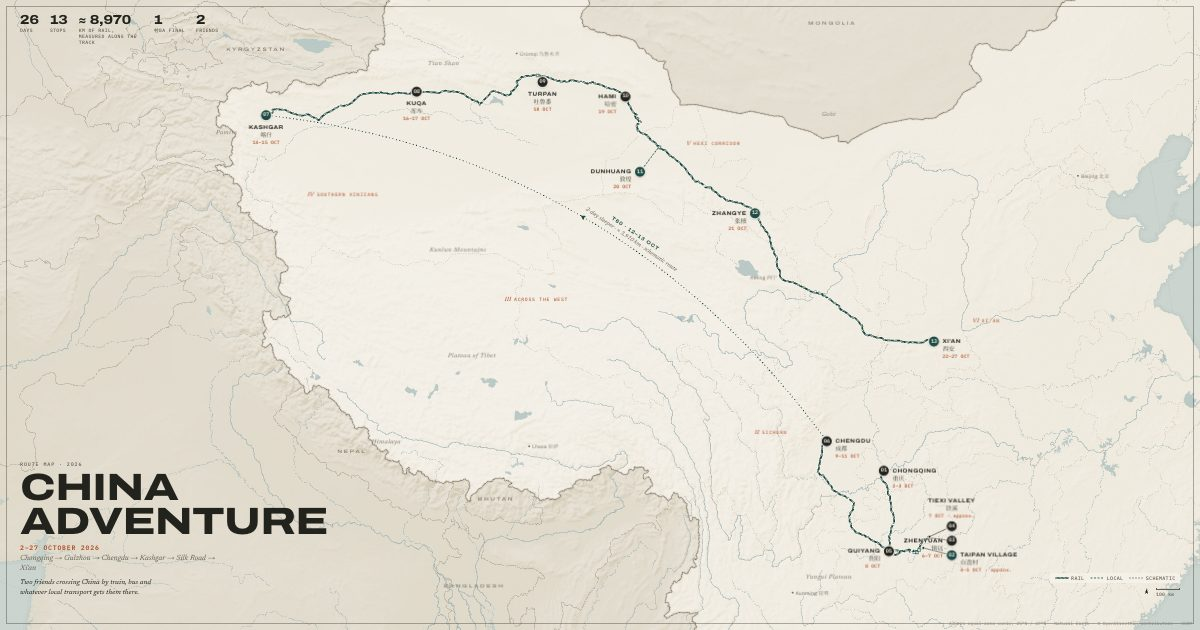
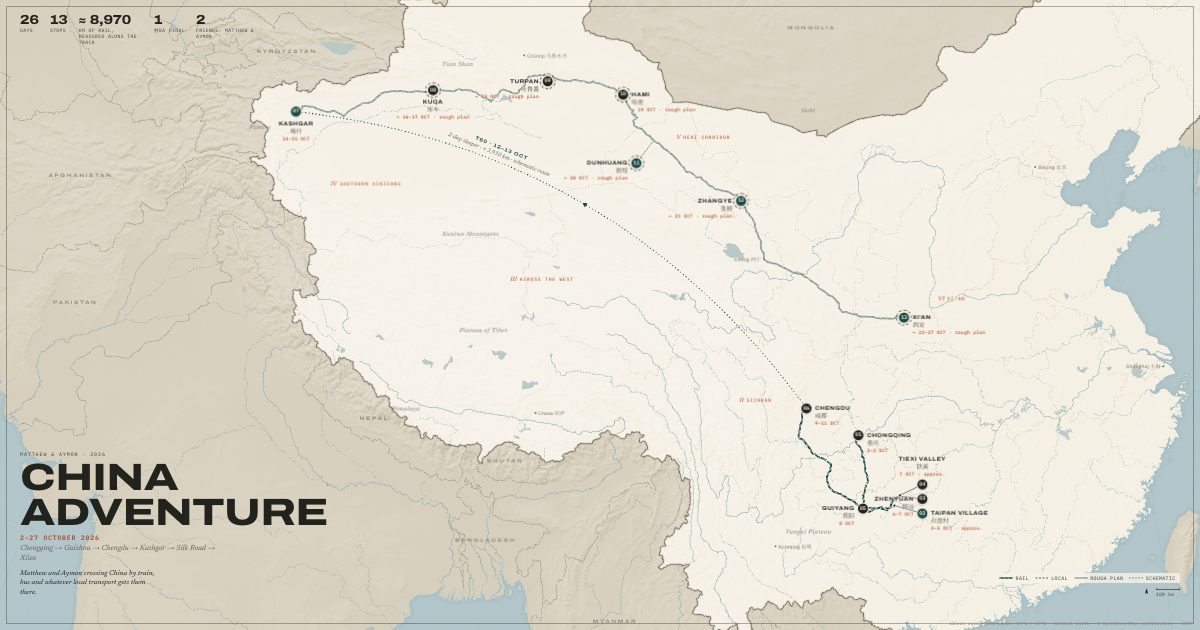
Phone fixes, names, rough plan after Kashgar
- Stop badges: hover/active scale was applied to the badge's position, so on a
  phone the badge jumped away mid-tap and taps never opened a card
- Higher-contrast map colours (light and dark), thicker routes on phones
- Phone controls moved to the top so the stop sheet never covers Pause
- Sticky prev/next in the phone sheet; edge labels slide to stay on screen
- Drags that start on a label or badge pan the map
- Play journey frames at least ~450 km
- Matthew & Aymon named; stops after Kashgar marked as a rough plan

diff --git a/app/src/index.css b/app/src/index.css
@@ -15,12 +15,12 @@
   --sand: #d9c49a;
   --focus: #1f6fd1;
 
-  --map-sea: #cdd6d1;
-  --map-sea-line: #9fb2ad;
-  --map-land: #f1ece1;
-  --map-land-other: #e2dccd;
-  --map-border: #a2998a;
-  --map-border-focus: #7f7563;
+  --map-sea: #b4c8cd;
+  --map-sea-line: #86a3aa;
+  --map-land: #f7f2e7;
+  --map-land-other: #d9d1bf;
+  --map-border: #968c7a;
+  --map-border-focus: #5f5544;
   --map-prov: #c4b69e;
   --map-river: #93adb0;
   --map-lake: #bccbc8;
@@ -32,7 +32,7 @@
   --map-accent: var(--accent);
   --map-paper: #f7f3ea;
   --map-ghost: rgba(29, 74, 68, 0.22);
-  --map-relief-alpha: 0.75;
+  --map-relief-alpha: 0.62;
 
   --f-display: "Archivo", "Helvetica Neue", Arial, sans-serif;
   --f-serif: "Newsreader", Georgia, "Times New Roman", serif;
@@ -59,20 +59,20 @@
     --teal-2: #6fa597;
     --sand: #6b5d40;
     --focus: #7fb2ff;
-    --map-sea: #121819;
-    --map-sea-line: #29393b;
-    --map-land: #262a26;
-    --map-land-other: #1c201d;
-    --map-border: #545a50;
-    --map-border-focus: #7b8274;
+    --map-sea: #0b1519;
+    --map-sea-line: #1f3a42;
+    --map-land: #343a33;
+    --map-land-other: #1f2320;
+    --map-border: #5d655a;
+    --map-border-focus: #a3ab98;
     --map-prov: #3d423a;
-    --map-river: #2f4a4d;
-    --map-lake: #1d2e30;
+    --map-river: #2e5a63;
+    --map-lake: #173039;
     --map-grat: rgba(180, 200, 190, 0.07);
     --map-ink-2: #8f8a7c;
     --map-paper: #1f2320;
     --map-ghost: rgba(140, 195, 179, 0.2);
-    --map-relief-alpha: 0.9;
+    --map-relief-alpha: 0.42;
     --shadow: 0 1px 0 rgba(0, 0, 0, 0.3), 0 10px 28px -10px rgba(0, 0, 0, 0.7);
     color-scheme: dark;
   }
@@ -90,20 +90,20 @@
   --teal-2: #6fa597;
   --sand: #6b5d40;
   --focus: #7fb2ff;
-  --map-sea: #121819;
-  --map-sea-line: #29393b;
-  --map-land: #262a26;
-  --map-land-other: #1c201d;
-  --map-border: #545a50;
-  --map-border-focus: #7b8274;
+  --map-sea: #0b1519;
+  --map-sea-line: #1f3a42;
+  --map-land: #343a33;
+  --map-land-other: #1f2320;
+  --map-border: #5d655a;
+  --map-border-focus: #a3ab98;
   --map-prov: #3d423a;
-  --map-river: #2f4a4d;
-  --map-lake: #1d2e30;
+  --map-river: #2e5a63;
+  --map-lake: #173039;
   --map-grat: rgba(180, 200, 190, 0.07);
   --map-ink-2: #8f8a7c;
   --map-paper: #1f2320;
   --map-ghost: rgba(140, 195, 179, 0.2);
-  --map-relief-alpha: 0.9;
+  --map-relief-alpha: 0.42;
   --shadow: 0 1px 0 rgba(0, 0, 0, 0.3), 0 10px 28px -10px rgba(0, 0, 0, 0.7);
   color-scheme: dark;
 }
@@ -180,8 +180,9 @@ a { color: inherit; }
 }
 .map-badge::before { content: ""; position: absolute; inset: -9px; border-radius: 50%; } /* 42px touch target */
 .map-badge.is-moment { background: var(--teal); }
-.map-badge:hover, .map-badge:focus-visible { scale: 1.16; z-index: 2; }
-.map-badge.is-active { background: var(--accent); color: var(--accent-ink); scale: 1.2; z-index: 3; }
+.map-badge:focus-visible { --s: 1.16; z-index: 2; }
+@media (hover: hover) { .map-badge:hover { --s: 1.16; z-index: 2; } }
+.map-badge.is-active { background: var(--accent); color: var(--accent-ink); --s: 1.2; z-index: 3; }
 .map-badge.is-future { opacity: 0.35; }
 :root[data-theme="dark"] .map-badge:not(.is-active):not(.is-moment) { background: var(--ink); color: #151816; }
 @media (prefers-color-scheme: dark) { :root:not([data-theme="light"]) .map-badge:not(.is-active):not(.is-moment) { background: var(--ink); color: #151816; } }
@@ -436,7 +437,7 @@ a { color: inherit; }
   .title br { display: none; }
   .corridor { display: none; }
   .top-right { top: 12px; right: 12px; }
-  .controls { right: 12px; bottom: 30px; }
+  .controls { right: 12px; top: 54px; bottom: auto; gap: 6px; } /* top on phones, so the bottom sheet never covers Pause */
   .ctrl { min-width: 44px; height: 44px; }
   .legend-dock { left: 12px; bottom: 28px; }
   .legend { flex-direction: column; gap: 7px; padding: 8px 10px; }
@@ -482,7 +483,8 @@ a { color: inherit; }
 }
 .map-jpin.is-latest { box-shadow: 0 0 0 0 color-mix(in srgb, var(--accent) 60%, transparent); animation: pin-pulse 2.4s ease-out infinite; }
 @keyframes pin-pulse { 70% { box-shadow: 0 0 0 10px transparent; } 100% { box-shadow: 0 0 0 0 transparent; } }
-.map-jpin:hover, .map-jpin:focus-visible { scale: 1.25; z-index: 4; }
+.map-jpin:focus-visible { --s: 1.25; z-index: 4; }
+@media (hover: hover) { .map-jpin:hover { --s: 1.25; z-index: 4; } }
 
 .sw-actual line { stroke: var(--accent); stroke-width: 1.6; stroke-dasharray: 1.5 3.5; stroke-linecap: round; }
 .sw-actual circle { fill: var(--accent); stroke: var(--map-paper); stroke-width: 1.2; }
@@ -581,3 +583,13 @@ a { color: inherit; }
   .welcome-title { font-size: 23px; }
 }
 .is-clean .top-right { display: none; } /* ?clean: for rendering the link-preview image */
+
+/* ------------------------------------------------------------------ rough plan (after Kashgar) */
+.map-badge.is-rough { outline: 1.5px dashed var(--ink-2); outline-offset: 2px; }
+.map-badge.is-rough.is-active { outline-color: var(--accent); }
+.sw-rough { opacity: 0.5; }
+.tag-rough { color: var(--ink-2); border-style: dashed; margin-left: 2px; }
+.card-rough { margin-top: 2px; margin-bottom: 8px; }
+
+/* keep previous / next reachable on the phone bottom sheet */
+.card-sheet .card-nav { position: sticky; bottom: calc(-14px - env(safe-area-inset-bottom, 0px)); margin: 12px -18px calc(-14px - env(safe-area-inset-bottom, 0px)); padding: 8px 18px calc(10px + env(safe-area-inset-bottom, 0px)); background: var(--paper-2); z-index: 1; }

diff --git a/app/src/map/engine.ts b/app/src/map/engine.ts
@@ -113,7 +113,13 @@ export class MapEngine {
     this.relief.src = reliefUrl;
 
     this.zoomer = zoom<HTMLElement, unknown>()
-      .filter((e: any) => (!e.ctrlKey || e.type === "wheel") && !e.button && !(e.target as HTMLElement).closest?.("[data-map-ui]"))
+      .filter((e: any) => {
+        const t = e.target as HTMLElement;
+        // drags that start on a marker or label still pan the map (a plain tap still selects it);
+        // panels, cards and buttons are left alone
+        const onMarker = !!t.closest?.(".map-badge, .map-slabel, .map-jpin");
+        return (!e.ctrlKey || e.type === "wheel") && !e.button && (onMarker || !t.closest?.("[data-map-ui]"));
+      })
       .on("zoom", (e) => {
         this.t = e.transform;
         this.requestRender();
@@ -242,7 +248,8 @@ export class MapEngine {
       const half = 180 / 6.371; // km → world units
       box = [[xy[0] - half, xy[1] - half], [xy[0] + half, xy[1] + half]];
     }
-    const minSpan = 70 / 6.371; // don't frame tighter than ~70 km
+    // never frame tighter than ~70 km for a clicked stop, or ~450 km while playing the journey
+    const minSpan = (mode === "leg" ? 450 : 70) / 6.371;
     const cx = (box[0][0] + box[1][0]) / 2, cy = (box[0][1] + box[1][1]) / 2;
     const hw = Math.max((box[1][0] - box[0][0]) / 2, minSpan / 2), hh = Math.max((box[1][1] - box[0][1]) / 2, minSpan / 2);
     return this.flyToBox([[cx - hw, cy - hh], [cx + hw, cy + hh]], duration, mode === "stop");
@@ -379,6 +386,7 @@ export class MapEngine {
       b.dataset.mapUi = "";
       b.dataset.stop = s.id;
       if (s.bigMoment) b.classList.add("is-moment");
+      if (s.tentative) b.classList.add("is-rough");
       b.setAttribute("aria-label", `Stop ${s.number}: ${s.city}, ${dateRangeLong(s.dateStart, s.dateEnd)}`);
       b.innerHTML = `<span>${pad2(s.number)}</span>`;
       b.addEventListener("click", (e) => {
@@ -397,7 +405,7 @@ export class MapEngine {
       l.setAttribute("aria-hidden", "true");
       l.innerHTML =
         `<span class="en">${s.city}</span><span class="zh" lang="zh-Hans">${s.chineseName}</span>` +
-        `<span class="dt">${stopDates(s)}${s.confidence === "approximate" ? " · approx." : ""}</span>` +
+        `<span class="dt">${s.tentative ? "≈ " : ""}${stopDates(s)}${s.tentative ? " · rough plan" : s.confidence === "approximate" ? " · approx." : ""}</span>` +
         `<span class="kick">${s.kicker}</span>`;
       l.addEventListener("click", (e) => {
         e.stopPropagation();
@@ -613,6 +621,7 @@ export class MapEngine {
     }
 
     this.drawRoutes();
+    ctx.globalAlpha = 1;
 
     // our actual route, joining located journal posts in date order
     if (this.actualPath && this.reveal == null) {
@@ -692,7 +701,7 @@ export class MapEngine {
 
   private drawRoutes() {
     const { ctx, colors: C } = this;
-    const px = 1 / this.t.k;
+    const px = (this.W < 560 ? 1.3 : 1) / this.t.k; // phones: thicker lines
     const focus = this.hoverStop ?? this.active;
 
     // ghost of the whole route while the journey is playing
@@ -714,6 +723,8 @@ export class MapEngine {
       if (f <= 0) continue;
       const path = r.seg.offsetPx ? this.offsetPath(r, f, r.seg.offsetPx) : this.partialPath(r, f);
       const hi = r.seg.leg === focus;
+      // rough-plan legs (after Kashgar) are drawn faded unless highlighted
+      ctx.globalAlpha = !hi && STOPS.find((s) => s.id === r.seg.leg)?.tentative ? 0.5 : 1;
       const hov = r.seg.id === this.hoverSeg;
       const col = hi ? C.accent : r.seg.mode === "local" ? C.local : C.rail;
       const extra = hov ? 1.2 : 0;
@@ -850,7 +861,7 @@ export class MapEngine {
       const id = a.s.id;
       const bp = badgePos.get(id)!;
       const b = this.badges.get(id)!;
-      b.style.transform = `translate(${bp[0] - B / 2}px, ${bp[1] - B / 2}px)`;
+      b.style.transform = `translate(${bp[0] - B / 2}px, ${bp[1] - B / 2}px) scale(var(--s, 1))`;
       b.classList.toggle("is-active", this.active === id);
       b.classList.toggle("is-future", !this.stopReached(a.s));
       placed.push({ x0: bp[0] - B / 2, y0: bp[1] - B / 2, x1: bp[0] + B / 2, y1: bp[1] + B / 2 });
@@ -885,7 +896,7 @@ export class MapEngine {
       for (const bp of badgePos.values())
         if (Math.abs(bp[0] - px) < B / 2 + 6 && Math.abs(bp[1] - py) < B / 2 + 6) { px = bp[0] + B / 2 - 1; py = bp[1] - B / 2 + 1; break; }
       g.p = [px, py];
-      el.style.transform = `translate(${g.p[0] - 7}px, ${g.p[1] - 7}px)`;
+      el.style.transform = `translate(${g.p[0] - 7}px, ${g.p[1] - 7}px) scale(var(--s, 1))`;
       el.style.visibility = this.reveal == null && !this.poster ? "visible" : "hidden";
       if (this.reveal == null && !this.poster) placed.push({ x0: g.p[0] - 7, y0: g.p[1] - 7, x1: g.p[0] + 7, y1: g.p[1] + 7 });
     }
@@ -925,7 +936,9 @@ export class MapEngine {
         if (prev) sides = [prev, ...sides.filter((x) => x !== prev)];
         for (const pass of [routeObs, undefined]) {
           for (const side of sides) {
-            const [x, y] = cand[side];
+            let [x, y] = cand[side];
+            // labels above/below a badge may slide sideways to stay on screen (e.g. Kashgar at the left edge)
+            if (side === "t" || side === "b") x = Math.max(6, Math.min(this.W - 6 - w, x));
             const rect = { x0: x, y0: y, x1: x + w, y1: y + h };
             if (free(rect, pass)) {
               placed.push(rect);

diff --git a/app/src/App.tsx b/app/src/App.tsx
@@ -138,7 +138,7 @@ export default function App() {
   const padFor = useCallback(
     (cardOpen: boolean) => {
       if (poster) return { top: 150, right: 60, bottom: 150, left: 60 };
-      if (mobile) return { top: 96, right: 20, bottom: cardOpen ? Math.round(window.innerHeight * 0.5) : 70, left: 20 };
+      if (mobile) return { top: 110, right: 20, bottom: cardOpen ? Math.round(window.innerHeight * 0.5) : 60, left: 20 };
       return { top: 120, right: cardOpen ? 400 : 200, bottom: 80, left: 70 };
     },
     [mobile, poster],
@@ -324,7 +324,7 @@ export default function App() {
         <div className="paper-grain" aria-hidden="true" />
 
         <header className="title-block" data-map-reserve data-map-ui>
-          <p className="eyebrow">Route map · {TRIP.start.slice(0, 4)}</p>
+          <p className="eyebrow">{TRIP.travellers} · {TRIP.start.slice(0, 4)}</p>
           <h1 className="title">China{" "}<br />Adventure</h1>
           <p className="dates">2–27 October 2026</p>
           <p className="corridor">Chongqing → Guizhou → Chengdu → Kashgar → Silk Road → Xi'an</p>
@@ -342,7 +342,7 @@ export default function App() {
             <div><b>13</b><span>stops</span></div>
             <div><b>{approxKm(totalRail).replace(" km", "")}</b><span>km of rail, measured along the track</span></div>
             <div><b>1</b><span>村BA final</span></div>
-            <div><b>2</b><span>friends</span></div>
+            <div><b>2</b><span>friends: {TRIP.travellers}</span></div>
           </aside>
         )}
 
@@ -425,6 +425,7 @@ export default function App() {
             <dl className="legend" id="legend">
               <div><dt><svg width="28" height="8" aria-hidden="true" className="sw sw-rail"><line x1="1" y1="4" x2="27" y2="4" /><line className="tie" x1="1" y1="4" x2="27" y2="4" /></svg></dt><dd>Rail</dd></div>
               <div><dt><svg width="28" height="8" aria-hidden="true" className="sw sw-local"><line x1="1" y1="4" x2="27" y2="4" /></svg></dt><dd>Local</dd></div>
+              <div><dt><svg width="28" height="8" aria-hidden="true" className="sw sw-rail sw-rough"><line x1="1" y1="4" x2="27" y2="4" /><line className="tie" x1="1" y1="4" x2="27" y2="4" /></svg></dt><dd>Rough plan</dd></div>
               {posts.some((p) => p.locSource !== "plan") && (
                 <div><dt><svg width="28" height="8" aria-hidden="true" className="sw sw-actual"><line x1="2" y1="4" x2="21" y2="4" /><circle cx="24" cy="4" r="3" /></svg></dt><dd>Actual</dd></div>
               )}
@@ -517,12 +518,13 @@ function Welcome({ posts, onClose, onOpenJournal }: { posts: JournalEntry[]; onC
         onKeyDown={(e) => e.key === "Escape" && onClose()}
       >
         <p className="post-kicker">2–27 October 2026 · 26 days · 13 stops</p>
-        <h2 id="welcome-title" className="welcome-title">Hello! This is our route across China.</h2>
+        <h2 id="welcome-title" className="welcome-title">Hello from Matthew and Aymon! This is our route across China.</h2>
         <p className="welcome-lede">{TRIP.strap}</p>
         <ul className="welcome-list">
           <li><b>Tap a numbered stop</b> to see where we'll be, when, and how we're getting there.</li>
           <li><b>Press Play journey</b> to watch the whole route unfold, Chongqing to Xi'an.</li>
           <li><b>Updates from the road</b> pop up here the next time you open this page. They also appear as <span className="welcome-pin" aria-hidden="true" /> pins, and the dotted line shows where we've actually been.</li>
+          <li><b>After Kashgar it's a rough plan.</b> The faded part of the route will change as we go, so follow the pins for where we really are.</li>
           <li>Signal will be patchy in places, so a quiet few days usually just means no signal.</li>
         </ul>
         <p className="welcome-status">

diff --git a/app/src/data/itinerary.ts b/app/src/data/itinerary.ts
@@ -12,7 +12,9 @@ export const TRIP = {
   end: "2026-10-27",
   arrival: "chongqing",
   departure: "xian",
-  strap: "Two friends crossing China by train, bus and whatever local transport gets them there.",
+  travellers: "Matthew & Aymon",
+  strap: "Matthew and Aymon crossing China by train, bus and whatever local transport gets them there.",
+  roughPlanNote: "After Kashgar the plan is very rough. Places, dates and trains will change as we go; the dotted line and pins show where we actually end up.",
 };
 
 export const CHAPTERS: Chapter[] = [
@@ -99,7 +101,7 @@ export const STOPS: Stop[] = [
     bigMoment: "Far west",
   },
   {
-    id: "kuqa", number: 8, chapter: "xinjiang",
+    id: "kuqa", tentative: true, number: 8, chapter: "xinjiang",
     dateStart: "2026-10-16", dateEnd: "2026-10-17",
     city: "Kuqa", chineseName: "库车", region: "Xinjiang", regionZh: "新疆",
     longitude: 82.9544, latitude: 41.7135, confidence: "verified", coordSource: OSM,
@@ -108,7 +110,7 @@ export const STOPS: Stop[] = [
     icon: "oasis",
   },
   {
-    id: "turpan", number: 9, chapter: "xinjiang",
+    id: "turpan", tentative: true, number: 9, chapter: "xinjiang",
     dateStart: "2026-10-18", dateEnd: "2026-10-18",
     city: "Turpan", chineseName: "吐鲁番", region: "Xinjiang", regionZh: "新疆",
     longitude: 89.1796, latitude: 42.9425, confidence: "verified", coordSource: OSM,
@@ -117,7 +119,7 @@ export const STOPS: Stop[] = [
     icon: "oasis",
   },
   {
-    id: "hami", number: 10, chapter: "hexi",
+    id: "hami", tentative: true, number: 10, chapter: "hexi",
     dateStart: "2026-10-19", dateEnd: "2026-10-19",
     city: "Hami", chineseName: "哈密", region: "Xinjiang", regionZh: "新疆",
     longitude: 93.513, latitude: 42.8255, confidence: "verified", coordSource: OSM,
@@ -126,7 +128,7 @@ export const STOPS: Stop[] = [
     icon: "oasis",
   },
   {
-    id: "dunhuang", number: 11, chapter: "hexi",
+    id: "dunhuang", tentative: true, number: 11, chapter: "hexi",
     dateStart: "2026-10-20", dateEnd: "2026-10-20",
     city: "Dunhuang", chineseName: "敦煌", region: "Gansu", regionZh: "甘肃",
     longitude: 94.6611, latitude: 40.1387, confidence: "verified", coordSource: "OSM, Shazhou town centre",
@@ -136,7 +138,7 @@ export const STOPS: Stop[] = [
     bigMoment: "Desert",
   },
   {
-    id: "zhangye", number: 12, chapter: "hexi",
+    id: "zhangye", tentative: true, number: 12, chapter: "hexi",
     dateStart: "2026-10-21", dateEnd: "2026-10-21",
     city: "Zhangye", chineseName: "张掖", region: "Gansu", regionZh: "甘肃",
     longitude: 100.4556, latitude: 38.9365, confidence: "verified", coordSource: OSM,
@@ -146,7 +148,7 @@ export const STOPS: Stop[] = [
     bigMoment: "Danxia",
   },
   {
-    id: "xian", number: 13, chapter: "xian",
+    id: "xian", tentative: true, number: 13, chapter: "xian",
     dateStart: "2026-10-22", dateEnd: "2026-10-27",
     city: "Xi'an", chineseName: "西安", region: "Shaanxi", regionZh: "陕西",
     longitude: 108.9423, latitude: 34.261, confidence: "verified", coordSource: "OSM, Bell Tower",

diff --git a/app/index.html b/app/index.html
@@ -4,7 +4,7 @@
     <meta charset="UTF-8" />
     <meta name="viewport" content="width=device-width, initial-scale=1.0, viewport-fit=cover" />
     <title>China Adventure 2026</title>
-    <meta name="description" content="Two friends crossing China by train, bus and local transport, 2–27 October 2026." />
+    <meta name="description" content="Matthew and Aymon crossing China by train, bus and local transport, 2–27 October 2026." />
     <meta name="theme-color" content="#efeadf" />
     <link rel="icon" type="image/svg+xml" href="favicon.svg" />
     <link rel="apple-touch-icon" href="apple-touch-icon.png" />
@@ -12,7 +12,7 @@
     <!-- link previews (WhatsApp, iMessage, etc.); preview image is public/og.jpg -->
     <meta property="og:type" content="website" />
     <meta property="og:title" content="China Adventure · 2–27 October 2026" />
-    <meta property="og:description" content="Our route across China by train, bus and local transport, with updates from the road." />
+    <meta property="og:description" content="Matthew and Aymon's route across China by train, bus and local transport, with updates from the road." />
     <meta property="og:url" content="https://matt-mccrea.github.io/china-adventure/" />
     <meta property="og:image" content="https://matt-mccrea.github.io/china-adventure/og.jpg" />
     <meta property="og:image:width" content="1200" />

diff --git a/app/src/components/StopCard.tsx b/app/src/components/StopCard.tsx
@@ -54,7 +54,8 @@ export function StopCard({
     <article className={`card card-${variant} ${stop.bigMoment ? "is-moment" : ""}`} aria-labelledby="card-title" data-map-ui>
       <header className="card-head">
         <span className="card-num">{pad2(stop.number)}</span>
-        <span className="card-date">{stopDates(stop)}</span>
+        <span className="card-date">{stop.tentative ? "≈ " : ""}{stopDates(stop)}</span>
+        {stop.tentative && <span className="tag tag-rough">Rough plan</span>}
         <button type="button" className="icon-btn card-close" onClick={onClose} aria-label="Close stop card">
           <svg width="14" height="14" viewBox="0 0 14 14" aria-hidden="true"><path d="M2 2l10 10M12 2L2 12" /></svg>
         </button>
@@ -69,6 +70,7 @@ export function StopCard({
       </div>
 
       <p className="card-kicker">{stop.kicker}</p>
+      {stop.tentative && <p className="card-note card-rough">After Kashgar the plan is loose. Dates, places and trains will change as we go.</p>}
 
       <ul className="card-highlights">
         {stop.highlights.map((h) => <li key={h}>{h}</li>)}

diff --git a/app/src/data/types.ts b/app/src/data/types.ts
@@ -43,6 +43,8 @@ export type Stop = {
   icon: IconId;
   /** chapter-level moment: gets a larger card treatment */
   bigMoment?: string;
+  /** loose plan: place, dates and route may change (shown faded, with a "Rough plan" tag) */
+  tentative?: boolean;
   /** stops that should only get a number (no name) at national zoom */
   minor?: boolean;
 };
